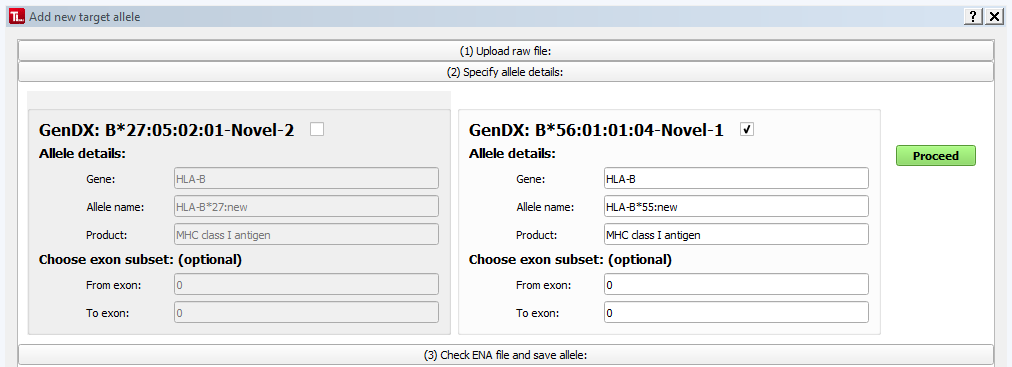
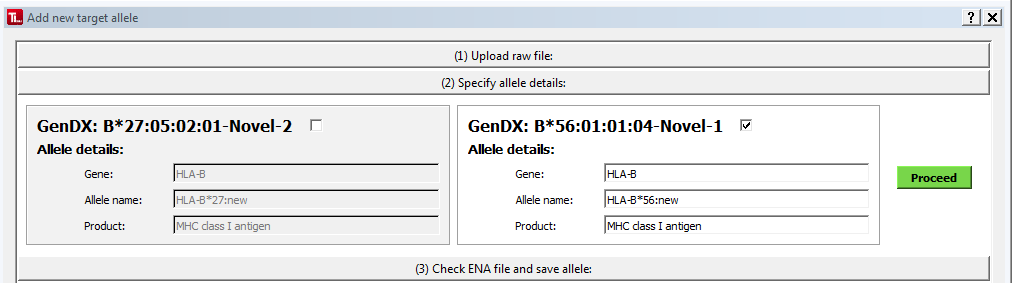
remove option to submit only some exons (#102)

Changed region(s): [[0.0, 0.0, 1.0, 1.0]]

diff --git a/src/GUI_forms_new_allele.py b/src/GUI_forms_new_allele.py
@@ -148,21 +148,6 @@ class AlleleSection(QGroupBox):
         layout.addWidget(QLabel("\tProduct:"),5,0)
         layout.addWidget(self.product_field, 5,1,1,2)
         
-        lbl3 = QLabel("Choose exon subset: (optional)")
-        lbl3.setStyleSheet(general.label_style_2nd)
-        layout.addWidget(lbl3, 6,0,1,3)
-        
-        self.exon1_field = QLineEdit(self, text="0")
-        self.exon1_field.setWhatsThis("Ignore everything before this exon")
-        self.fields.append(self.exon1_field)
-        layout.addWidget(QLabel("\tFrom exon:"),7,0)
-        layout.addWidget(self.exon1_field, 7,1,1,2)
-        self.exon2_field = QLineEdit(self, text="0")
-        self.fields.append(self.exon2_field)
-        self.exon2_field.setWhatsThis("Ignore everything after this exon")
-        layout.addWidget(QLabel("\tTo exon:"),8,0)
-        layout.addWidget(self.exon2_field, 8,1,1,2)
-        
     def select(self):
         """select the whole section of this allele
         """
@@ -490,8 +475,6 @@ class NewAlleleForm(CollapsibleDialog):
             self.allele1.newAlleleName = self.allele1_sec.name_field.text().strip()
             self.allele1.productName_DE = self.allele1_sec.product_field.text().strip()
             self.allele1.productName_FT = self.allele1.productName_DE
-            self.allele1.fromExon = int(self.allele1_sec.exon1_field.text().strip())
-            self.allele1.toExon = int(self.allele1_sec.exon2_field.text().strip())
             self.allele1.partner_allele = self.allele2_sec.name_field.text().strip()
             
             self.allele2.geneName = self.allele2_sec.gene_field.text().strip()
@@ -499,8 +482,6 @@ class NewAlleleForm(CollapsibleDialog):
             self.allele2.newAlleleName = self.allele2_sec.name_field.text().strip()
             self.allele2.productName_DE = self.allele2_sec.product_field.text().strip()
             self.allele2.productName_FT = self.allele2.productName_DE
-            self.allele2.fromExon = int(self.allele2_sec.exon1_field.text().strip())
-            self.allele2.toExon = int(self.allele2_sec.exon2_field.text().strip())
             self.allele2.partner_allele = self.allele1_sec.name_field.text().strip()
             if self.allele1_sec.checkbox.checkState():
                 self.myallele = self.allele1

diff --git a/src/typeloader_functions.py b/src/typeloader_functions.py
@@ -283,7 +283,7 @@ def process_sequence_file(project, filetype, blastXmlFile, targetFamily, fasta_f
                 generalData = BME.make_globaldata(gene_tag = gene_tag, gene = geneName, allele = newAlleleName, product_DE = productName_DE, product_FT = productName_FT, 
                                                   function = function, species = flatfile_dic["species"], 
                                                   seqLen = str(len(sequence)), cellline = myallele.local_name)
-                ENA_text = BME.make_header(BE.backend_dict, generalData, enaPosHash, null_allele) + BME.make_genemodel(BE.backend_dict, generalData, enaPosHash, extraInformation, features, 0, 0) + BME.make_footer(BE.backend_dict, sequence)
+                ENA_text = BME.make_header(BE.backend_dict, generalData, enaPosHash, null_allele) + BME.make_genemodel(BE.backend_dict, generalData, enaPosHash, extraInformation, features) + BME.make_footer(BE.backend_dict, sequence)
                 #TODO (future): accept multiple sequences from one fasta file
         return True, myalleles, ENA_text
     except Exception as E:
@@ -328,7 +328,7 @@ def make_ENA_file(blastXmlFile, targetFamily, allele, settings, log, incomplete_
                                       cellline = allele.local_name)
     ENA_text = BME.make_header(BE.backend_dict, generalData, enaPosHash, allele.null_allele) 
     ENA_text += BME.make_genemodel(BE.backend_dict, generalData, enaPosHash, 
-                                    extraInformation, features, allele.fromExon, allele.toExon) 
+                                    extraInformation, features) 
     ENA_text += BME.make_footer(BE.backend_dict, sequence)
     ENA_text = ENA_text.strip()
     

diff --git a/src/typeloader_core/backend_make_ena.py b/src/typeloader_core/backend_make_ena.py
@@ -92,7 +92,7 @@ def make_header(backend_dict, general, enaPosHash, null_allele):
         headerop = headerop.replace(field, general[field])
     return headerop
 
-def make_genemodel(backend_dict,general,enaPosHash, extraInformation, features, fromExon = 0, toExon = 0):
+def make_genemodel(backend_dict,general,enaPosHash, extraInformation, features):
 
     eText = backend_dict["exonString"]
     iText = backend_dict["intronString"]
@@ -112,20 +112,11 @@ def make_genemodel(backend_dict,general,enaPosHash, extraInformation, features, 
         feature = features[featureIndex]
         if feature == "utr5" or feature == "utr3": continue
         number = feature[0]
-        ex_in = feature[1]
-        #print ex_in
-        #print number
         if feature[1].startswith("e"):
             # feature is an exon
-            #exon = exons[number]
             exon = pseudoexons[number] if feature[1].startswith("epseudo") else exons[number]
-            #print "exon"
-            #print exon
-            if fromExon and ((number) < fromExon): continue
-            if toExon and ((number) > toExon): break
             genemodelop += eText.replace("{start}",str(exon[0])).replace("{stop}",str(exon[1])).replace("{exon_num}",str(exonNums[number]))
             if (pseudoExonsNums[number] == True): genemodelop += peText
-            if toExon and ((number) == toExon): break
         else:
             # feature is an intron
             intron = introns[number]

diff --git a/src/tests/test_typeloader_GUI.py b/src/tests/test_typeloader_GUI.py
@@ -341,8 +341,6 @@ class Test_Create_New_Allele(unittest.TestCase):
         self.assertEqual(self.form.allele1_sec.GenDX_result, "A*01:01:01:01")
         self.assertEqual(self.form.allele1_sec.name_field.text(), samples_dic["sample_2"]["target_allele"])
         self.assertEqual(self.form.allele1_sec.product_field.text(), "MHC class I antigen")
-        self.assertEqual(int(self.form.allele1_sec.exon1_field.text()), 0)
-        self.assertEqual(int(self.form.allele1_sec.exon2_field.text()), 0)
         
         self.form.ok_btn.click()
         self.form.save_btn.click()        

diff --git a/user_manual/new_allele.md b/user_manual/new_allele.md
@@ -74,7 +74,7 @@ These can be entered from the same raw XML file by uploading one allele, then up
 
 For more details see [=> Multiple alleles of one sample](multiple_alleles.md).
 
-##  Alternative 
-If you have several new fasta files you want to upload, you can use the [=> Bulk Fasta Upload](new_allele_bulk.md) instead. 
+##  Alternative: bulk upload 
+If you have several new fasta files you want to upload to one project, you can use the [=> Bulk Fasta Upload](new_allele_bulk.md) instead. 
 
-![Pic](images/icon_important.png) **We recommend not using this feature until you have gotten familiar with adding individual alleles.**
+![Pic](images/icon_important.png) **To avoid confusion and mistakes, TypeLoader does not enable this feature until you have gotten familiar with adding individual alleles.**
